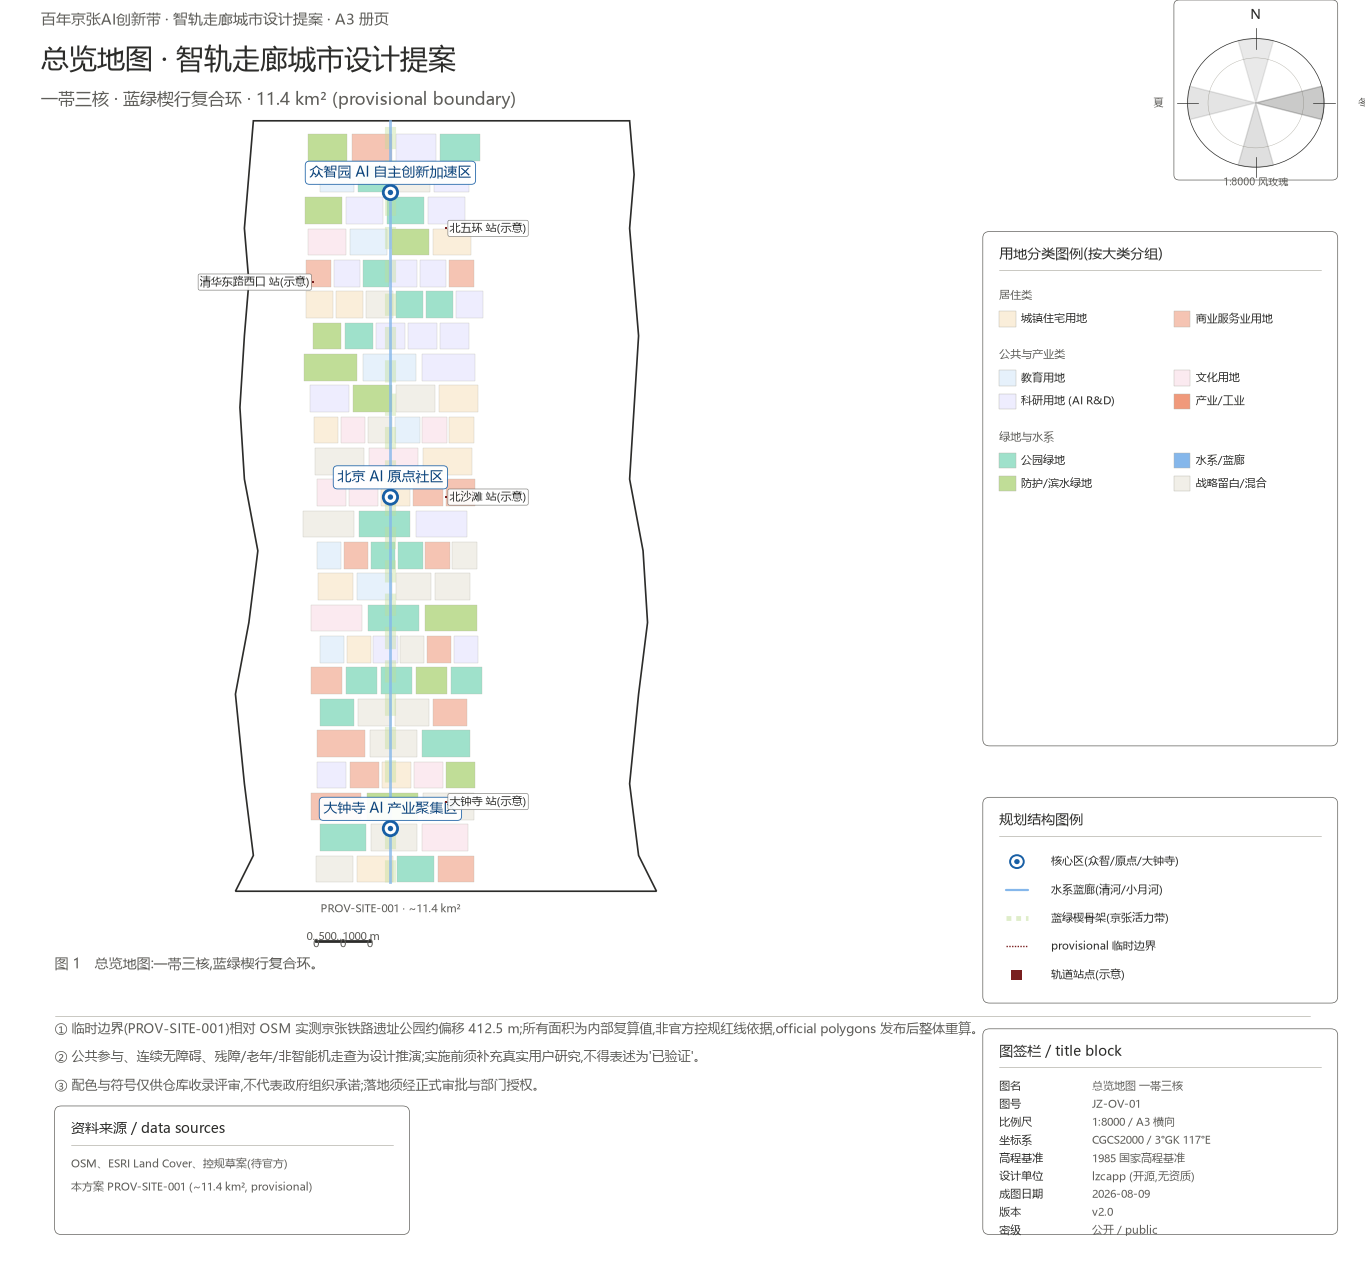
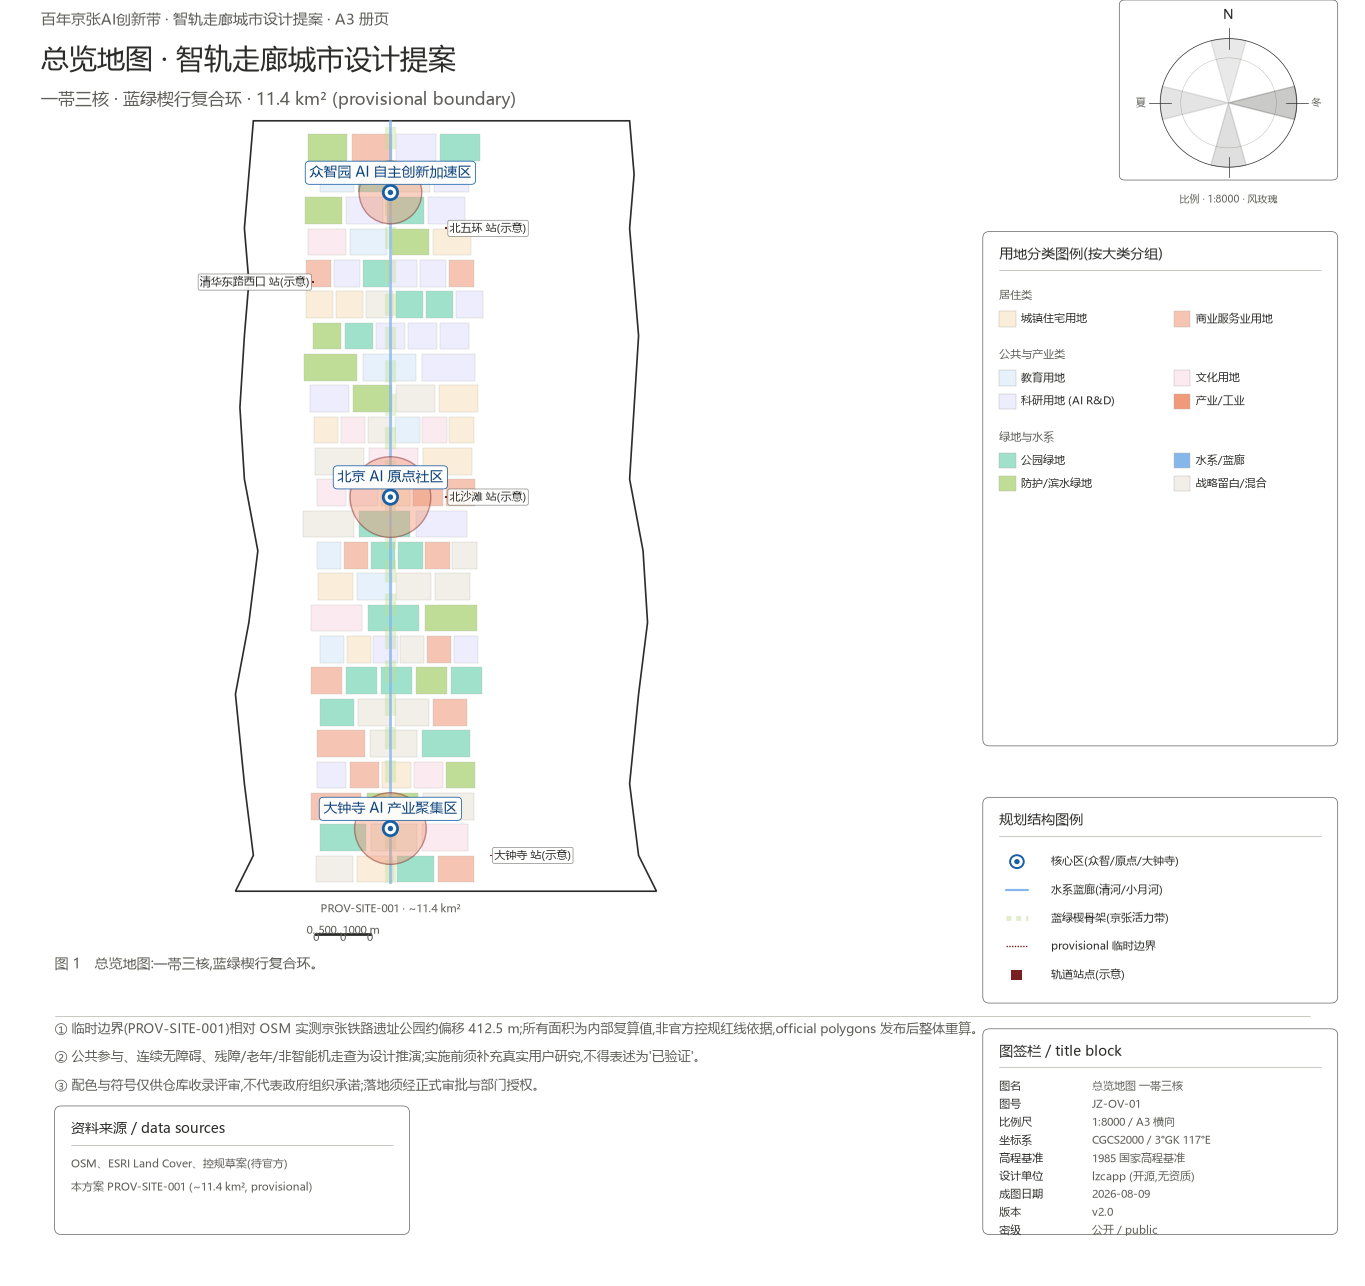
feat(lzcapp/jingzhang-ai-belt): figures v2.1 — 微调 4 项
1. 关键区标签与色块对齐: 引入 add_corridor_keypoints() 辅助函数,在 3 张地图图(总览/重点区域/交通蓝绿)的关键区标签下补画半透明橙色范围盘,使标签落在可见色块上。
2. 地铁站标签与核心区标签避让: 大钟寺站从 (0.355, 0.16) 右移下移至 (0.405, 0.10),彻底脱离 '大钟寺 AI 产业聚集区' 标签。
3. 风玫瑰 '冬/夏' 文字出界: 风玫瑰外框加宽 (cx 0.92→0.90, 宽 0.12→0.16), '冬'/'夏' 加 ha/va 锚点确保留在框内;副标题改为 '比例 · 1:8000 · 风玫瑰' 并移到框外下方,既消歧又避让南向楔形。
4. 比例尺条位置: y 由 0.005 上移到 0.012,增加底部留白。

所有调整通过 add_corridor_keypoints() 统一封装,3 张地图图同步更新。校验仍 ok:true/errors:[],stage=formal。未开 PR(按既定规则)。

diff --git a/build_figures_v2.py b/build_figures_v2.py
@@ -126,8 +126,8 @@ def draw_title_block(fig, fig_id, fig_name, fig_idx):
 
 def draw_wind_rose(fig):
     s = fig.add_axes([0, 0, 1, 1]); s.set_xlim(0, 1); s.set_ylim(0, 1); s.axis("off")
-    cx, cy, r = 0.92, 0.92, 0.05
-    box(s, cx - r - 0.01, cy - r - 0.01, 2 * r + 0.02, 2 * r + 0.04, r=0.004)
+    cx, cy, r = 0.90, 0.92, 0.05
+    box(s, cx - r - 0.03, cy - r - 0.01, 2 * r + 0.06, 2 * r + 0.04, r=0.004)
     s.add_patch(Circle((cx, cy), r, fill=False, ec=PAL["tier0_text"], lw=0.5))
     s.add_patch(Circle((cx, cy), r * 0.7, fill=False, ec=PAL["fig_block_divider"], lw=0.3))
     for ang_deg, w in [(0, 1.0), (90, 0.4), (180, 0.5), (270, 0.6)]:
@@ -139,9 +139,9 @@ def draw_wind_rose(fig):
         x2, y2 = cx + (r + 0.008) * np.cos(a), cy + (r + 0.008) * np.sin(a)
         s.plot([x1, x2], [y1, y2], color=PAL["tier0_text"], lw=0.5)
     text(s, cx, cy + r + 0.018, "N", size=9, weight="500", ha="center")
-    text(s, cx + r + 0.025, cy, "冬", size=7, color=PAL["tier1_text"])
-    text(s, cx - r - 0.025, cy, "夏", size=7, color=PAL["tier1_text"])
-    text(s, cx, cy - r - 0.012, "1:8000 风玫瑰", size=7, color=PAL["tier1_text"], ha="center")
+    text(s, cx + r + 0.018, cy, "冬", size=7, color=PAL["tier1_text"], ha="right", va="center")
+    text(s, cx - r - 0.018, cy, "夏", size=7, color=PAL["tier1_text"], ha="left", va="center")
+    text(s, cx, cy - r - 0.025, "比例 · 1:8000 · 风玫瑰", size=7, color=PAL["tier1_text"], ha="center", va="center")
 
 
 def draw_scale_bar(ax, x, y, length_m, segments=2, label="0..500..1000 m", color=None):
@@ -283,6 +283,34 @@ def add_key_area(ax, cx, cy, label, sublabel):
          bbox=dict(facecolor="white", edgecolor=PAL["tier1"], lw=0.6, boxstyle="round,pad=0.3", alpha=0.95))
 
 
+# (cx, cy, label, range_disc_radius)
+CORRIDOR_KEYPOINTS = [
+    (0.293, 0.84, "众智园 AI 自主创新加速区", 0.035),
+    (0.293, 0.50, "北京 AI 原点社区", 0.045),
+    (0.293, 0.13, "大钟寺 AI 产业聚集区", 0.040),
+]
+
+
+def add_corridor_keypoints(ax, with_range_disc=True):
+    """Draw the three key areas (with optional semi-transparent range discs so labels
+    sit over a visible color block) and four illustrative transit stations.
+
+    The bottom station is repositioned to (0.405, 0.10) so its white-box label
+    stays clear of the '大钟寺 AI 产业聚集区' key-area label above its circle.
+    """
+    if with_range_disc:
+        for cx, cy, _, r in CORRIDOR_KEYPOINTS:
+            ax.add_patch(Circle((cx, cy), r, fc=PAL["key_area"], ec=PAL["tier2_text"],
+                                lw=1.0, alpha=0.45, zorder=4))
+    for cx, cy, label, _ in CORRIDOR_KEYPOINTS:
+        add_key_area(ax, cx, cy, label, "")
+    add_station(ax, 0.355, 0.80, "北五环 站(示意)", "right")
+    add_station(ax, 0.207, 0.74, "清华东路西口 站(示意)", "left")
+    add_station(ax, 0.355, 0.50, "北沙滩 站(示意)", "right")
+    # bottom station: shifted down-right so its label clears the key-area label
+    add_station(ax, 0.405, 0.10, "大钟寺 站(示意)", "right")
+
+
 def corridor_outline(ax, color="black", lw=1.0):
     pts = [
         (0.12, 0.06), (0.14, 0.10), (0.13, 0.18), (0.12, 0.28),
@@ -330,15 +358,9 @@ def build_fig_site_overview(out_path):
     ax.plot([0.293, 0.293], [0.07, 0.92], color=PAL["water"], lw=2.0, zorder=3, alpha=0.8)
     ax.plot([0.293, 0.293], [0.07, 0.92], color=PAL["greenway"], lw=8, zorder=2.5, alpha=0.4,
             dashes=(2, 1))
-    add_key_area(ax, 0.293, 0.84, "众智园 AI 自主创新加速区", "")
-    add_key_area(ax, 0.293, 0.50, "北京 AI 原点社区", "")
-    add_key_area(ax, 0.293, 0.13, "大钟寺 AI 产业聚集区", "")
-    add_station(ax, 0.355, 0.80, "北五环 站(示意)", "right")
-    add_station(ax, 0.207, 0.74, "清华东路西口 站(示意)", "left")
-    add_station(ax, 0.355, 0.50, "北沙滩 站(示意)", "right")
-    add_station(ax, 0.355, 0.16, "大钟寺 站(示意)", "right")
+    add_corridor_keypoints(ax, with_range_disc=True)
     text(ax, 0.293, 0.04, "PROV-SITE-001 · ~11.4 km²", size=8, color=PAL["tier1_text"], ha="center")
-    draw_scale_bar(ax, 0.21, 0.005, length_m=0.06, label="0..500..1000 m")
+    draw_scale_bar(ax, 0.21, 0.012, length_m=0.06, label="0..500..1000 m")
     draw_wind_rose(fig)
     draw_metadata_block(fig)
     draw_land_use_legend(fig, LU_ITEMS, LU_GROUPS)
@@ -380,17 +402,9 @@ def build_fig_key_areas(out_path):
             xc = x_start + c * cell_w
             color = PAL["key_building"] if rng.random() < 0.45 else (PAL["residential"] if rng.random() < 0.5 else PAL["mixed"])
             ax.add_patch(Rectangle((xc, yc), cell_w * 0.92, row_h * 0.85, fc=color, ec=PAL["fig_block_divider"], lw=0.2, zorder=2))
-    for cx, cy, r in [(0.293, 0.84, 0.035), (0.293, 0.50, 0.045), (0.293, 0.13, 0.040)]:
-        ax.add_patch(Circle((cx, cy), r, fc=PAL["key_area"], ec=PAL["tier2_text"], lw=1.0, alpha=0.45, zorder=4))
-    add_key_area(ax, 0.293, 0.84, "众智园 AI 自主创新加速区", "")
-    add_key_area(ax, 0.293, 0.50, "北京 AI 原点社区", "")
-    add_key_area(ax, 0.293, 0.13, "大钟寺 AI 产业聚集区", "")
-    add_station(ax, 0.355, 0.80, "北五环 站(示意)", "right")
-    add_station(ax, 0.207, 0.74, "清华东路西口 站(示意)", "left")
-    add_station(ax, 0.355, 0.50, "北沙滩 站(示意)", "right")
-    add_station(ax, 0.355, 0.16, "大钟寺 站(示意)", "right")
+    add_corridor_keypoints(ax, with_range_disc=True)
     text(ax, 0.293, 0.04, "PROV-SITE-001 · ~11.4 km²", size=8, color=PAL["tier1_text"], ha="center")
-    draw_scale_bar(ax, 0.21, 0.005, length_m=0.06, label="0..500..1000 m")
+    draw_scale_bar(ax, 0.21, 0.012, length_m=0.06, label="0..500..1000 m")
     draw_wind_rose(fig)
     draw_metadata_block(fig)
     s = fig.add_axes([0, 0, 1, 1]); s.set_xlim(0, 1); s.set_ylim(0, 1); s.axis("off")
@@ -449,7 +463,7 @@ def build_fig_land_use_structure(out_path):
             xc = 0.205 + col_idx * 0.024
             ax.add_patch(Rectangle((xc, yc), col_w * 0.85, 0.035, fc=color, ec=PAL["fig_block_divider"], lw=0.2, zorder=2))
     text(ax, 0.293, 0.04, "PROV-SITE-001 · 单元数按地理分布示意", size=8, color=PAL["tier1_text"], ha="center")
-    draw_scale_bar(ax, 0.21, 0.005, length_m=0.06, label="0..500..1000 m")
+    draw_scale_bar(ax, 0.21, 0.012, length_m=0.06, label="0..500..1000 m")
     draw_wind_rose(fig)
     draw_metadata_block(fig)
     s = fig.add_axes([0, 0, 1, 1]); s.set_xlim(0, 1); s.set_ylim(0, 1); s.axis("off")
@@ -494,15 +508,9 @@ def build_fig_mobility_bluegreen(out_path):
     ax.plot([0.205, 0.39], [0.55, 0.55], color=PAL["primary_road"], lw=2.0, zorder=3)
     ax.plot([0.205, 0.39], [0.30, 0.30], color=PAL["primary_road"], lw=2.0, zorder=3)
     ax.plot([0.205, 0.39], [0.75, 0.75], color=PAL["secondary_road"], lw=1.4, zorder=3)
-    add_key_area(ax, 0.293, 0.84, "众智园 AI 自主创新加速区", "")
-    add_key_area(ax, 0.293, 0.50, "北京 AI 原点社区", "")
-    add_key_area(ax, 0.293, 0.13, "大钟寺 AI 产业聚集区", "")
-    add_station(ax, 0.355, 0.80, "北五环 站(示意)", "right")
-    add_station(ax, 0.207, 0.74, "清华东路西口 站(示意)", "left")
-    add_station(ax, 0.355, 0.50, "北沙滩 站(示意)", "right")
-    add_station(ax, 0.355, 0.16, "大钟寺 站(示意)", "right")
+    add_corridor_keypoints(ax, with_range_disc=True)
     text(ax, 0.293, 0.04, "PROV-SITE-001 · 蓝绿楔骨架", size=8, color=PAL["tier1_text"], ha="center")
-    draw_scale_bar(ax, 0.21, 0.005, length_m=0.06, label="0..500..1000 m")
+    draw_scale_bar(ax, 0.21, 0.012, length_m=0.06, label="0..500..1000 m")
     draw_wind_rose(fig)
     draw_metadata_block(fig)
     s = fig.add_axes([0, 0, 1, 1]); s.set_xlim(0, 1); s.set_ylim(0, 1); s.axis("off")
